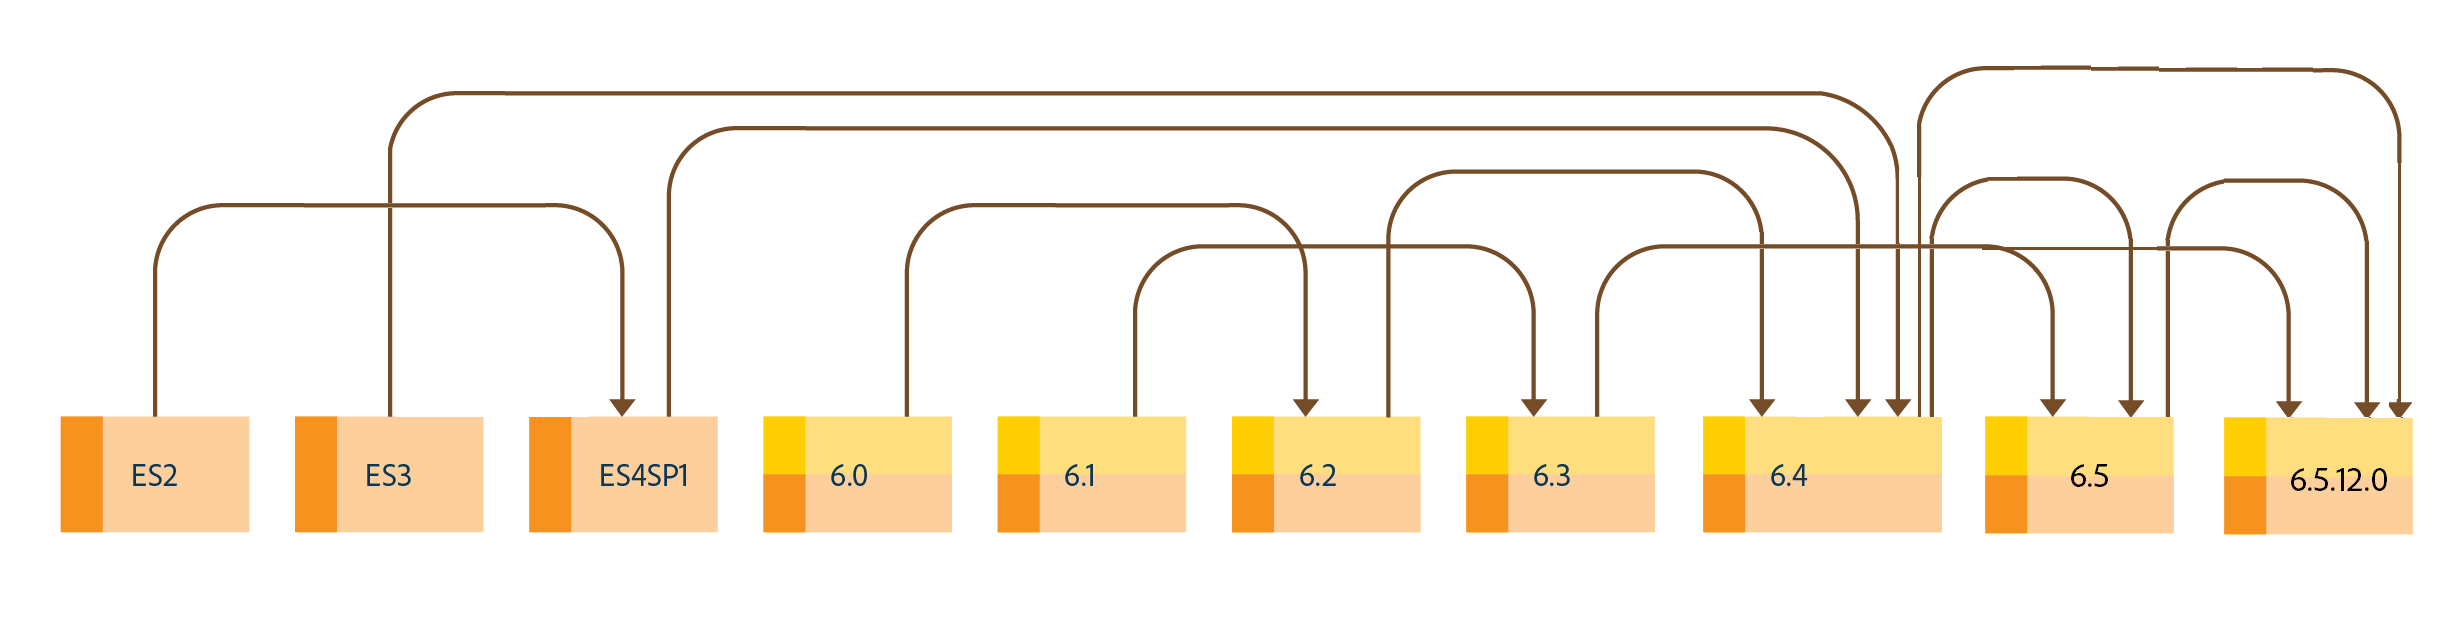
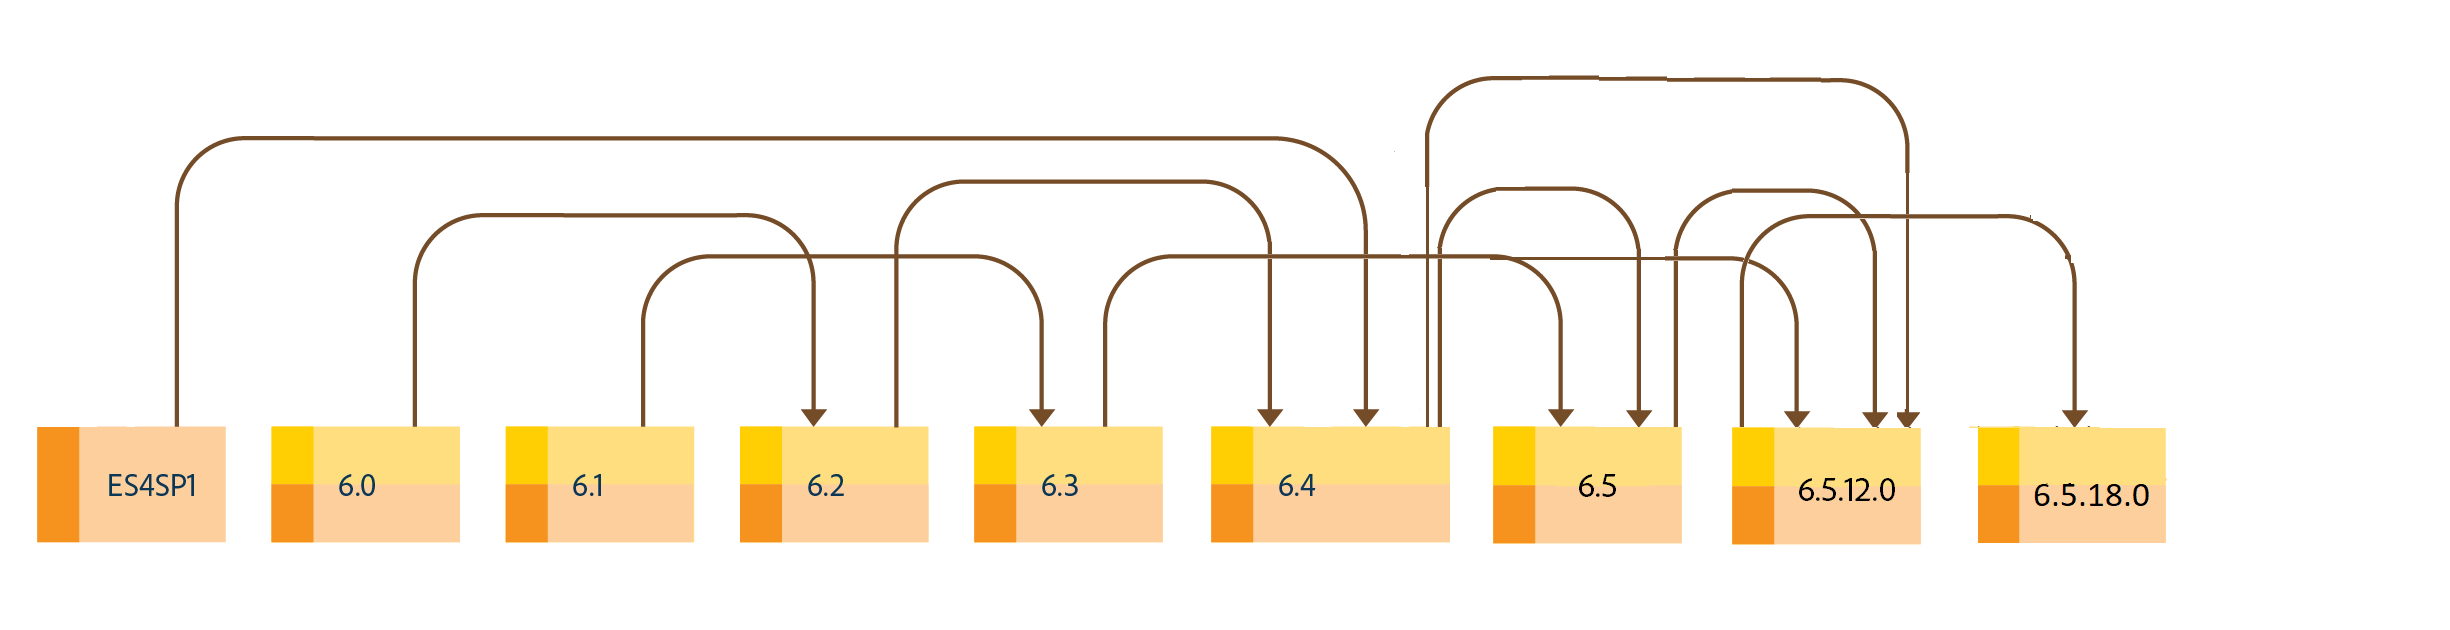
upgrading path for AEM 6.5.180 SP release

diff --git a/help/forms/using/upgrade.md b/help/forms/using/upgrade.md
@@ -44,6 +44,7 @@ The following diagram displays the available upgrade paths for AEM Forms on JEE:
 
 ![JEE upgrade 6.5](do-not-localize/jee-upgrade-6-5.png)
 
+
 You can perform a direct upgrade from:
 
 * AEM 6.3 Forms on JEE
@@ -52,16 +53,14 @@ You can perform a direct upgrade from:
 
 You can also perform a multi-hop upgrade from
 
-* LiveCycle ES2
-* LiveCycle ES3
 * LiveCycle ES4 SP1
 * AEM 6.0 Forms on JEE
 * AEM 6.1 Forms on JEE
 * AEM 6.2 Forms on JEE
 
-AEM 6.5.12.0 Forms on JEE provides provides two types of installers: [Full installer](https://experienceleague.adobe.com/docs/experience-manager-release-information/aem-release-updates/forms-updates/aem-forms-releases.html) and [Patch installer](https://experienceleague.adobe.com/docs/experience-manager-release-information/aem-release-updates/forms-updates/aem-forms-releases.html).
+AEM 6.5.18.0 Forms on JEE provides provides two types of installers: [Full installer](https://experienceleague.adobe.com/docs/experience-manager-release-information/aem-release-updates/forms-updates/aem-forms-releases.html) and [Patch installer](https://experienceleague.adobe.com/docs/experience-manager-release-information/aem-release-updates/forms-updates/aem-forms-releases.html).
 
-**Full installer**: You can use the full installer to set up fresh AEM Forms instances or perform upgrades from AEM 6.3 Forms on JEE, AEM 6.4 on JEE, and out-of-the-place upgrade from AEM 6.5.x.x Forms on JEE to AEM 6.5.12.0 Forms on JEE.
+**Full installer**: You can use the full installer to set up fresh AEM Forms instances or perform upgrades from AEM 6.5.x.x Forms on JEE to AEM 6.5.18.0 Forms on JEE.
 
 **Patch installer**: Patch installer is for customers already using AEM 6.5.x.x versions. You can use the patch installer to upgrade to the latest version of AEM Forms.
 
